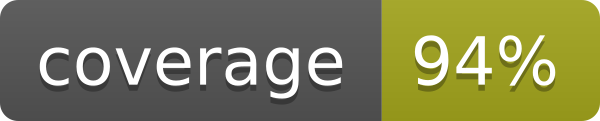
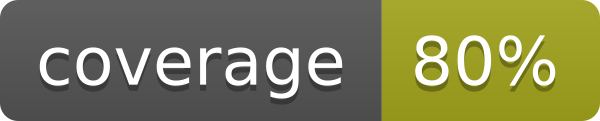
Added tests to util.py. Removed unused argument from util.prompt_for_user_token.

Changed region(s): [[0.69, 0.2727, 0.84, 0.7686]]

diff --git a/my_spotipy/util.py b/my_spotipy/util.py
@@ -8,15 +8,13 @@ import spotipy
 from callback_server import callback_server
 
 
-def prompt_for_user_token(username, scope=None, client_id=None,
+def prompt_for_user_token(scope=None, client_id=None,
                           client_secret=None, redirect_uri=None):
     ''' prompts the user to login if necessary and returns
         the user token suitable for use with the spotipy.Spotify 
         constructor
 
         Parameters:
-
-         - username - the Spotify username
          - scope - the desired scope of the request
          - client_id - the client id of your app
          - client_secret - the client secret of your app
@@ -34,15 +32,10 @@ def prompt_for_user_token(username, scope=None, client_id=None,
 
     callbackServer.wait_for_request()
 
-    while callbackServer.url == '':
-        pass
-
     response = callbackServer.url
 
     code = sp_oauth.parse_response_code(response)
     token_info = sp_oauth.get_access_token(code)
 
-    if token_info:
-        return token_info['access_token']
-    else:
-        return None
+    return token_info['access_token']
+

diff --git a/tests/test_util.py b/tests/test_util.py
@@ -1,0 +1,25 @@
+"""Module testing the changed util module from spotipy library."""
+
+import unittest
+
+import spotipy
+
+import my_spotipy.util as util
+import properties
+
+__author__ = 'Jonarzz'
+
+
+class UtilTest(unittest.TestCase):
+    """Class used to test util module from spotipy library.
+    Inherits from TestCase class of unittest module."""
+
+    def test_prompt_for_user_token(self):
+        self.assertRaises(spotipy.SpotifyException,
+                          util.prompt_for_user_token)
+
+        token = util.prompt_for_user_token(properties.MODIFY_PLAYLISTS_SCOPE,
+                                                   properties.SPOTIFY_API_ID,
+                                                   properties.SPOTIFY_API_SECRET,
+                                                   properties.SPOTIFY_REDIRECT_URL)
+        self.assertIsNotNone(token)

diff --git a/spotify.py b/spotify.py
@@ -20,8 +20,9 @@ def generate_token(spotify_username):
     """Method that returns a spotipy Spotify API token for a given username, if the user
     gave the permission to connect the app with their account.
     If the token could not be generated, TokenGenerationException is raised."""
-    token = util.prompt_for_user_token(spotify_username, properties.MODIFY_PLAYLISTS_SCOPE,
-                                       properties.SPOTIFY_API_ID, properties.SPOTIFY_API_SECRET,
+    token = util.prompt_for_user_token(properties.MODIFY_PLAYLISTS_SCOPE,
+                                       properties.SPOTIFY_API_ID,
+                                       properties.SPOTIFY_API_SECRET,
                                        properties.SPOTIFY_REDIRECT_URL)
     if token:
         return token
